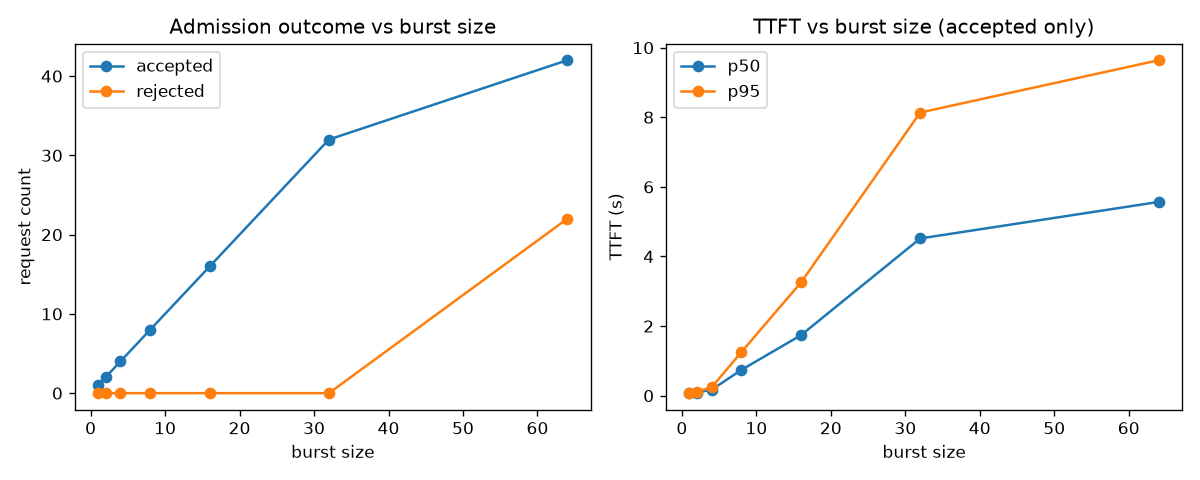
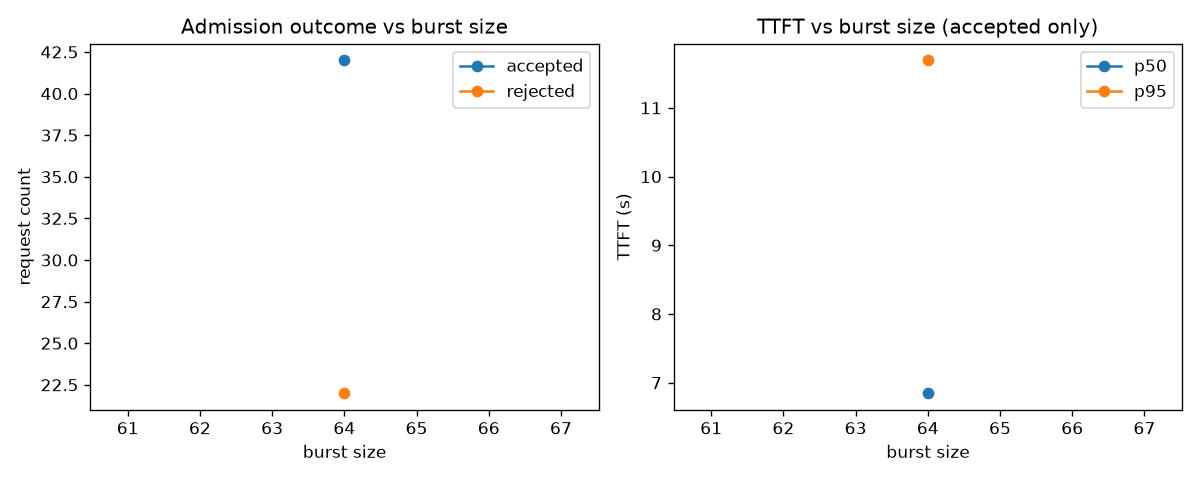
Update burst benchmark and demo docs
Refresh the burst benchmark output after rerunning the scenario and add the corresponding caveat to the demo-page PRD. The docs now explain that browser demo settings do not realistically reach the KV-cache rejection path, and that the queue-depth check is the relevant admission-control signal in the page; the KV budget path is only observable in terminal benchmark runs with higher concurrency.

diff --git a/docs/demo-page-prd.md b/docs/demo-page-prd.md
@@ -208,6 +208,16 @@ page's default prompts are prose that does not depend on line breaks.
   `benchmarks/burst.py` does — later ones queue *in the browser*, before ever reaching admission
   control. This inflates apparent TTFT and *understates* rejection counts. The page must say so
   in a footer rather than let a viewer read its numbers as benchmark-grade.
+- **The KV rejection path is effectively unreachable from a browser at demo settings.** Measured
+  at ~6 concurrent: `max_tokens` of 24–256 yields **zero** rejections, because each request
+  reserves only `ceil((prompt + max_tokens)/16)` blocks — roughly 3 of 128 at `max_tokens=24`, so
+  ~18/128 blocks are in use at full browser concurrency. `kv_cache_full` first appears at
+  `max_tokens=400` (4 accepted / 2 rejected) and reaches 1/5 at `max_tokens=1024` — all of which
+  mean 30-second generations, unusable in a recording. **Consequence:** demonstrating admission
+  control from the page requires the *queue-depth* check (`TINYSERVE_MAX_QUEUE_DEPTH=3`), which
+  fires realistically on small requests; the *KV-budget* check belongs to a terminal recording of
+  `benchmarks/burst.py`, which has no connection cap. This is why the recording guide keeps the
+  burst demo in a terminal rather than moving it here.
 - **Browser-side timings.** TTFT here includes browser scheduling and paint; the server's own
   `ttft_seconds` histogram is the accurate one.
 - Consequently: numbers on this page are *illustrative of behaviour*, and `docs/benchmarks.md`
